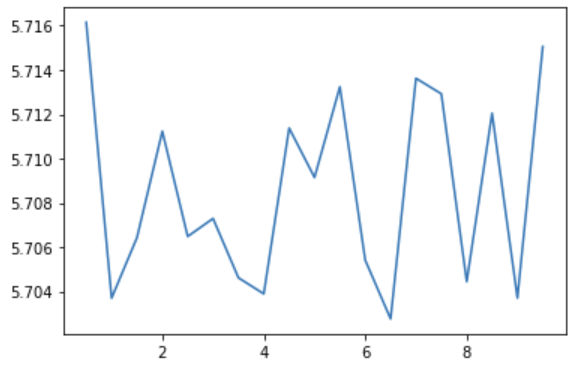
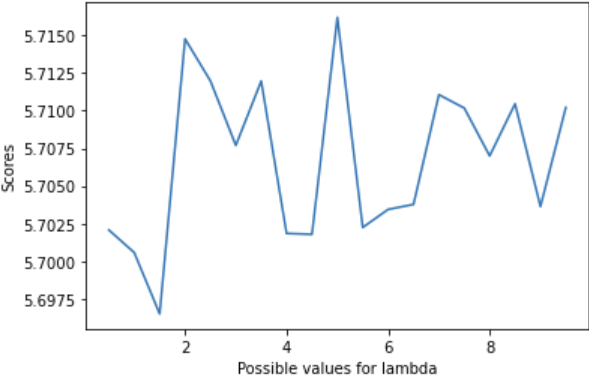
fixing labels

Changed region(s): [[0.0, 0.0, 1.0, 1.0], [0.4139, 0.6576, 0.473, 0.8071]]

diff --git a/docs/Assignment3.html b/docs/Assignment3.html
@@ -36,7 +36,7 @@
             <p>First, I generated 200 samples of strongly correlated data. SCADLinear seemed to consistently perform the best when compared to ElasticNet and Square root Lasso (which were introduced to us in class) on this set of strongly correlated data.
                 While all three models had scores within a close range of each other (between 2 and 3), SCADLinear seemed to always have the lowest mean squared error.
                 Additionally, SCADLinear's coefficients seemed to most closely match the actual coefficients specified in beta star (the original/"correct" coefficients).
-                I mapped the absolute difference from the original coefficients for each of the three models to display just how precise SCADLinear was in comparison to the other models.
+                I mapped the absolute difference from the original coefficients for each of the three models' predicted coefficients to display just how precise SCADLinear was in comparison to the other models.
             </p>
             <figure>
             <img src="absolute_comparison.png"/>
@@ -49,7 +49,7 @@
                 However, this could be an opportunity for further investigation, as perhaps the learning rate of the model is an important factor. I did 10-fold cross-validation on the concrete dataset with quadratic interaction
                 terms (which I added using scikit-learn's PolynomialFeatures). The majority of iterations found that there were 44 important coefficients (with a threshold of 0.01 considered closest to zero), although sometimes one coefficient was deemed unnecessary, lowering the number of coefficients to 43.
                 This exception did not occur on the final test of the data, but the plot is included here to show that there is a minor outlier. The last run of every k-fold had an unusually high score, which could be due to a fitting error. However, most other scores were fairly consistent.
-                Below is the map of the number of coefficients greater than zero versus the score.
+                Below is a plot of the number of coefficients greater than zero versus the score.
             </p>
             <figure>
             <img src="coef_plot.png">
